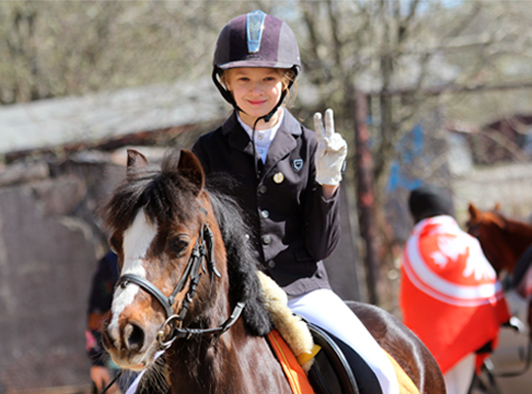
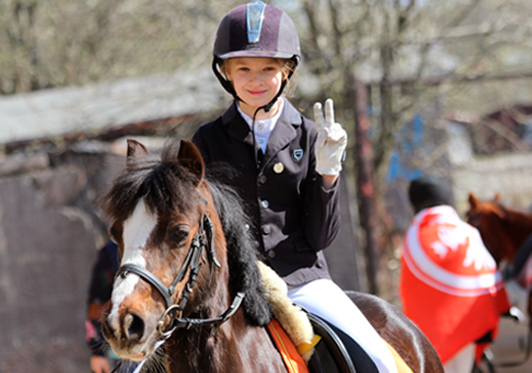
4

diff --git a/index.html b/index.html
@@ -36,30 +36,38 @@
   </div>
 </section>
 
-<section class="page about"> <div class="container">
+<section class="page about"> 
+  <div class="container">
   <h3 class="title--section">О клубе</h3>
   <div class="about__content">
     <ul class="about__list">
       <li class="about__item"><div class="about__text"><div class="about__text-title">
         Мы, команда КСК “Онежская слобода”:
       </div>
-
           <p>Пропагандируем здоровый образ жизни!<br>
-          
           Формируем уважительное и бережное отношение
           человека к лошади!<br>
-          
           Популяризируем конный спорт и любительскую
            и оздоровительную верховую езду!<br>
-          
           Сохраняем традиции русской культуры!<br>
-          
           Разводим пони для развития детского спорта!<br>
-          
-          Организуем полезный и интересный досуг!</p></div></li>
-      <li class="about__item"><img src="./images/about_1.jpg" alt="ребенок на лошади" class="about__img"></li>
-      <li class="about__item"><img src="./images/about_2.jpg" alt="всадники в полях" class="about__img"></li>
-      <li class="about__item"></li>
+          Организуем полезный и интересный досуг!</p></div>
+      <img src="./images/about_2.jpg" alt="ребенок на лошади" class="about__img"></li>
+      <li class="about__item">
+        <img src="./images/about_1.jpg" alt="всадники в полях" class="about__img">
+        <div class="about__text">Наш клуб был официально отрыт в октябре 2018 года.
+          Существует он уже более 10 лет. Нас объединяет
+          любовь к лошадям и конному спорту и огромное
+          желание развивать конный спорт в Республике Карелия.
+          В клубе есть учебные лошади и пони, жеребята
+          пони и лошадей спортивных пород, все условия для
+          содержания частных лошадей. В клубе более 10
+          человек тренируются в спортивных дисциплинах на
+          постоянной основе, регулярно проводятся фотосессии,
+          соревнования, экскурсии и другие мероприятия.
+          </div>
+          <a href=# class="button button--popup">Наши задачи и приоритеты</a>
+      </li>
     </ul>
   </div>
 </div>

diff --git a/main.css b/main.css
@@ -428,11 +428,15 @@ button {
   cursor: pointer; }
 
 .wrapper {
+  position: relative;
   width: 100%;
   height: 100%;
   font-family: 'ubuntu', sans-serif, Arial, Helvetica, sans-serif;
   font-size: 0.875rem;
   font-weight: 300; }
+
+.maincontent {
+  height: 100%; }
 
 ul {
   margin-left: 0;
@@ -465,7 +469,6 @@ h1, h2, h3, h4 {
   justify-content: center;
   width: 100%;
   height: 100%;
-  min-height: 40.625rem;
   z-index: 3; }
 
 .container {
@@ -497,10 +500,7 @@ h1, h2, h3, h4 {
   flex-direction: column; }
 
 .main-page__content {
-  text-align: left;
-  -webkit-box-flex: 0.95;
-  -ms-flex: 0.95;
-  flex: 0.95; }
+  text-align: left; }
 
 .main-page__desc {
   color: #fff;
@@ -522,7 +522,8 @@ h1, h2, h3, h4 {
   padding-left: 1.5625rem;
   -webkit-box-pack: justify;
   -ms-flex-pack: justify;
-  justify-content: space-between; }
+  justify-content: space-between;
+  z-index: 5; }
 
 .logo__image {
   width: 150px; }
@@ -555,7 +556,7 @@ h1, h2, h3, h4 {
   text-shadow: -4px 6px 5px #2d2f2c; }
 
 .title--section {
-  margin: 2.5rem auto;
+  margin: 2.1875rem auto;
   color: #2e495d;
   font-size: 1.875rem;
   font-weight: 300; }
@@ -566,12 +567,21 @@ h1, h2, h3, h4 {
   border-radius: 5px;
   padding: 9px 35px;
   margin-top: 3.125rem;
-  font-family: 'ubuntu', sans-serif;
+  font-family: 'montserrat', sans-serif;
   font-size: 16px;
   letter-spacing: 2px;
   color: #fff; }
   .button:hover {
     background-color: #273f51; }
+
+.button--popup {
+  margin-top: 20px;
+  width: 90%;
+  -ms-flex-item-align: center;
+  -ms-grid-row-align: center;
+  align-self: center;
+  font-size: 14px;
+  text-align: center; }
 
 .about {
   background-color: #dddddc; }
@@ -580,23 +590,37 @@ h1, h2, h3, h4 {
   display: -webkit-box;
   display: -ms-flexbox;
   display: flex;
-  -ms-flex-wrap: wrap;
-  flex-wrap: wrap;
+  -webkit-box-pack: justify;
+  -ms-flex-pack: justify;
+  justify-content: space-between;
   margin-bottom: 1.875rem; }
 
 .about__item {
-  width: 50%; }
+  display: -webkit-box;
+  display: -ms-flexbox;
+  display: flex;
+  -webkit-box-orient: vertical;
+  -webkit-box-direction: normal;
+  -ms-flex-direction: column;
+  flex-direction: column;
+  width: 50%;
+  margin-right: 15px; }
+  .about__item:last-child {
+    margin-right: 0; }
 
 .about__img {
-  max-width: 100%; }
+  max-width: 90%;
+  max-height: 250px; }
 
 .about__text {
-  font-size: 1rem;
+  font-size: 0.9375rem;
   font-family: 'ubuntu', Arial, Helvetica, sans-serif;
   color: #292726;
-  line-height: 2;
-  font-weight: 500;
-  padding-right: 15px; }
+  line-height: 1.7;
+  font-weight: 300; }
+  @media screen and (max-width: 850px) {
+    .about__text {
+      font-size: 0.875rem; } }
 
 .about__text-title {
   color: #2e495d; }

diff --git a/css/about.scss b/css/about.scss
@@ -1,13 +1,19 @@
 .about {background-color: #dddddc;}
-.about__list {display: flex; flex-wrap: wrap;margin-bottom: rem(30px);}
-.about__item {width: 50%;}
-.about__img {max-width: 100%;}
+.about__list {display: flex; justify-content: space-between;
+  margin-bottom: rem(30px);}
+
+.about__item {display: flex; flex-direction: column;
+  width: 50%;margin-right: 15px;
+&:last-child {margin-right: 0;}
+}
+.about__img {max-width: 90%; max-height: 250px;}
 .about__text {
-  font-size: rem(16px);
+  font-size: rem(15px);
   font-family: 'ubuntu', Arial, Helvetica, sans-serif;
   color: $black;
-  line-height: 2;
-  font-weight: 500;padding-right: 15px;
+  line-height: 1.7;
+  font-weight: 300;
+  @include small-width {font-size: rem(14px);}
 }
 
 .about__text-title {color: $blue;

diff --git a/css/layout.scss b/css/layout.scss
@@ -13,13 +13,15 @@ html {font-size: 16px;}
   cursor: pointer;
   }
   
-  .wrapper {
+  .wrapper {position: relative;
     width: 100%;
     height: 100%;
+   // overflow: hidden;
     font-family: 'ubuntu', sans-serif, Arial, Helvetica, sans-serif;
   font-size: rem(14px);
   font-weight: 300; 
   }
+  .maincontent {height: 100%;}
   
   ul {margin-left: 0;
     padding-left: 0;
@@ -38,7 +40,7 @@ html {font-size: 16px;}
     justify-content: center;
     width: 100%;
     height: 100%;
-   min-height: rem(650px);
+//   min-height: rem(640px);
   z-index: 3;
 }
 

diff --git a/css/button.scss b/css/button.scss
@@ -3,8 +3,10 @@ border: #fff 1px solid;
 border-radius: 5px; 
 padding: 9px 35px;
 margin-top: rem(50px);
-font-family: 'ubuntu', sans-serif;
+font-family: 'montserrat', sans-serif;
 font-size: 16px; 
 letter-spacing: 2px; 
 color: #fff;
 &:hover {background-color: #273f51;}}
+
+.button--popup {margin-top: 20px;width: 90%; align-self: center; font-size: 14px; text-align: center;}

diff --git a/css/media.scss b/css/media.scss
@@ -2,6 +2,15 @@
   @return $px / 16px + 0rem;
 }
 
+@mixin small-width {
+  @media screen and (max-width: 850px) {
+    @content;
+  }}
+  
+  @mixin tablets {
+    @media screen and (max-width: 640px) {
+      @content;
+    }}
 
 @mixin phones {
   @media screen and (max-width: 480px) {

diff --git a/css/title.scss b/css/title.scss
@@ -6,7 +6,7 @@ line-height: 0.89;
 text-shadow: -4px 6px 5px #2d2f2c;
 }
 
-.title--section {margin: rem(40px) auto;
+.title--section {margin: rem(35px) auto;
   color: $blue;
   font-size: rem(30px);
 font-weight: 300;}

diff --git a/css/header.scss b/css/header.scss
@@ -3,7 +3,8 @@
   display: flex; 
   padding-top: rem(15px);
   padding-left: rem(25px);
-justify-content: space-between;}
+justify-content: space-between;
+z-index: 5;}
 
 .logo__image {
   width: 150px;}

diff --git a/css/main-page.scss b/css/main-page.scss
@@ -10,7 +10,7 @@ background-repeat: no-repeat;
 
 }
 .main-page__content {text-align: left;
-  flex: 0.95;
+
 }
 
 .main-page__desc {color: #fff;

diff --git a/css/menu.scss b/css/menu.scss
@@ -1,4 +1,5 @@
-.menu {color: #fff;}
+.menu {color: #fff;
+}
 .menu__list {
   display: flex;
 }
